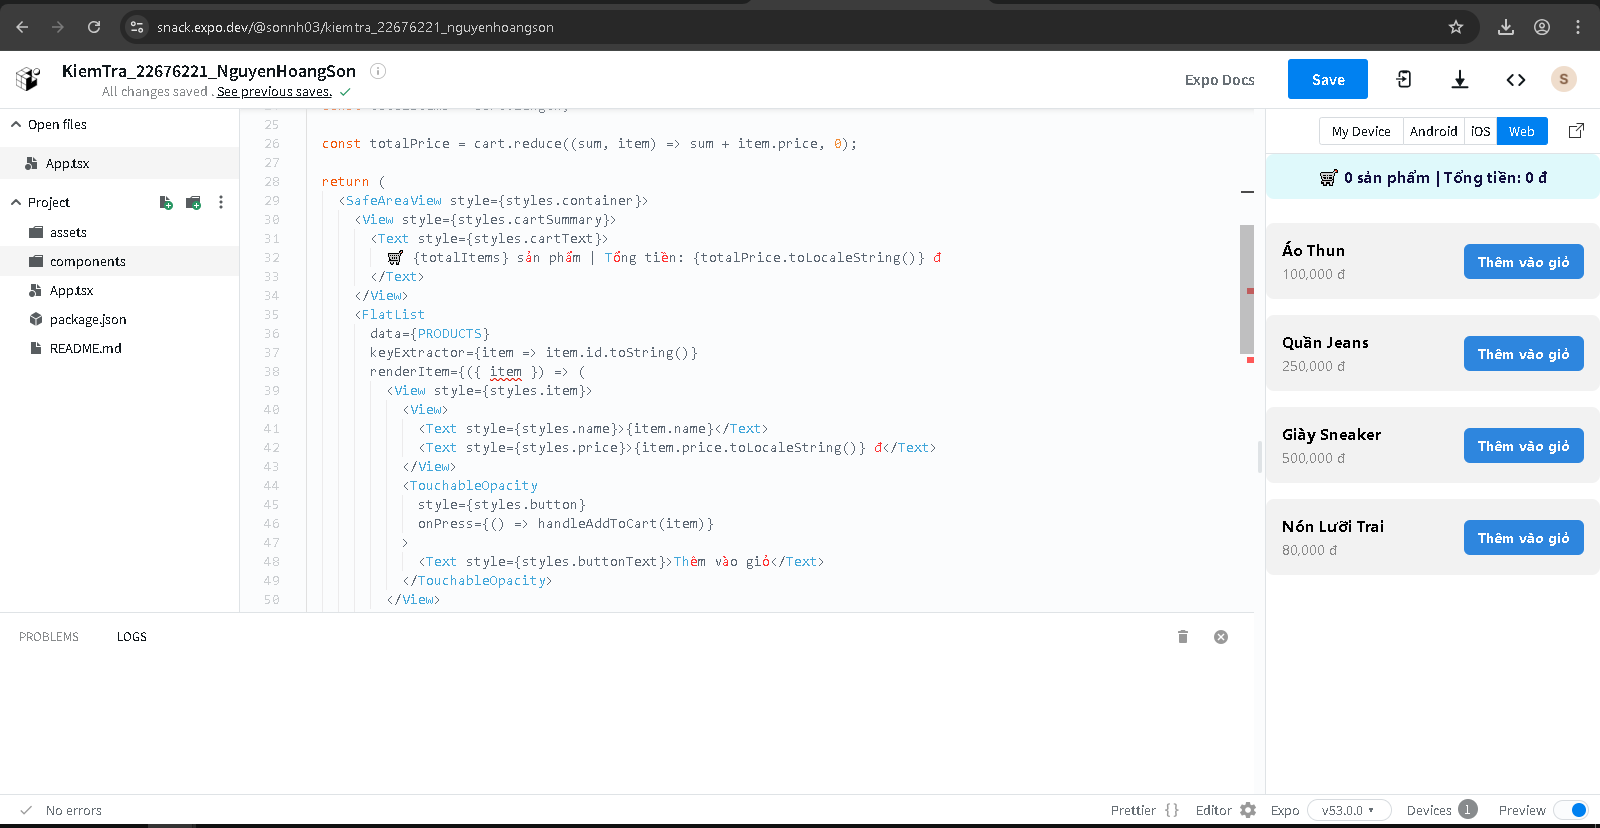
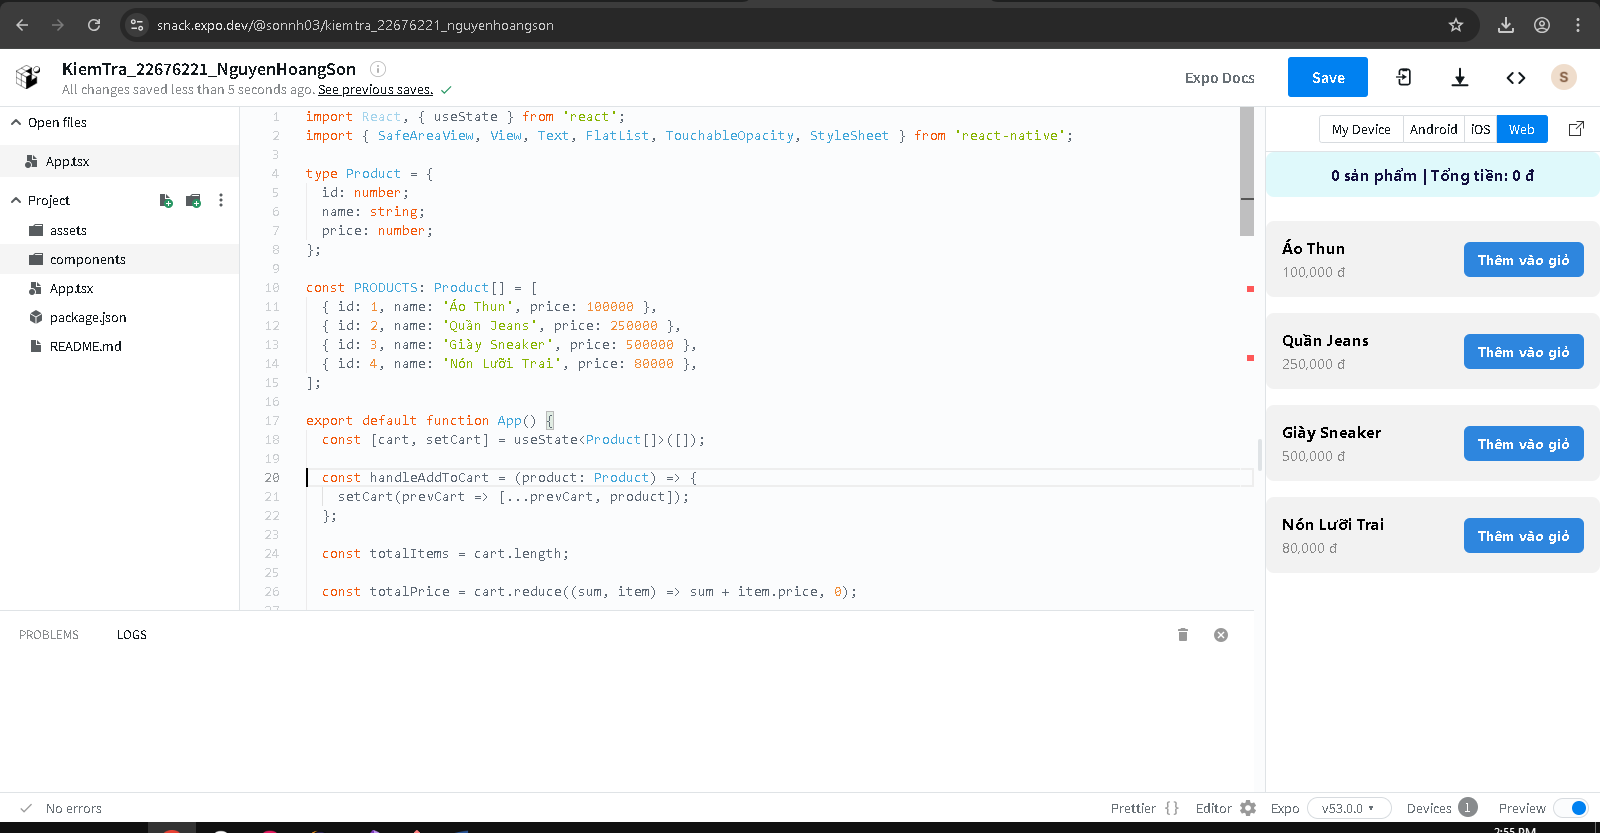
add minh Chung va add project

diff --git a/22676221_NguyenHoangSon_ThuongKy/kiemtra_22676221_nguyenhoangson/components/CartSumary.tsx b/22676221_NguyenHoangSon_ThuongKy/kiemtra_22676221_nguyenhoangson/components/CartSumary.tsx
@@ -13,7 +13,7 @@ const CartSummary: React.FC<Props> = ({ cart }) => {
   return (
     <View style={styles.container}>
       <Text style={styles.text}>
-        🛒 {totalItems} sản phẩm | Tổng tiền: {totalPrice.toLocaleString()} đ
+        {totalItems} sản phẩm | Tổng tiền: {totalPrice.toLocaleString()} đ
       </Text>
     </View>
   );
